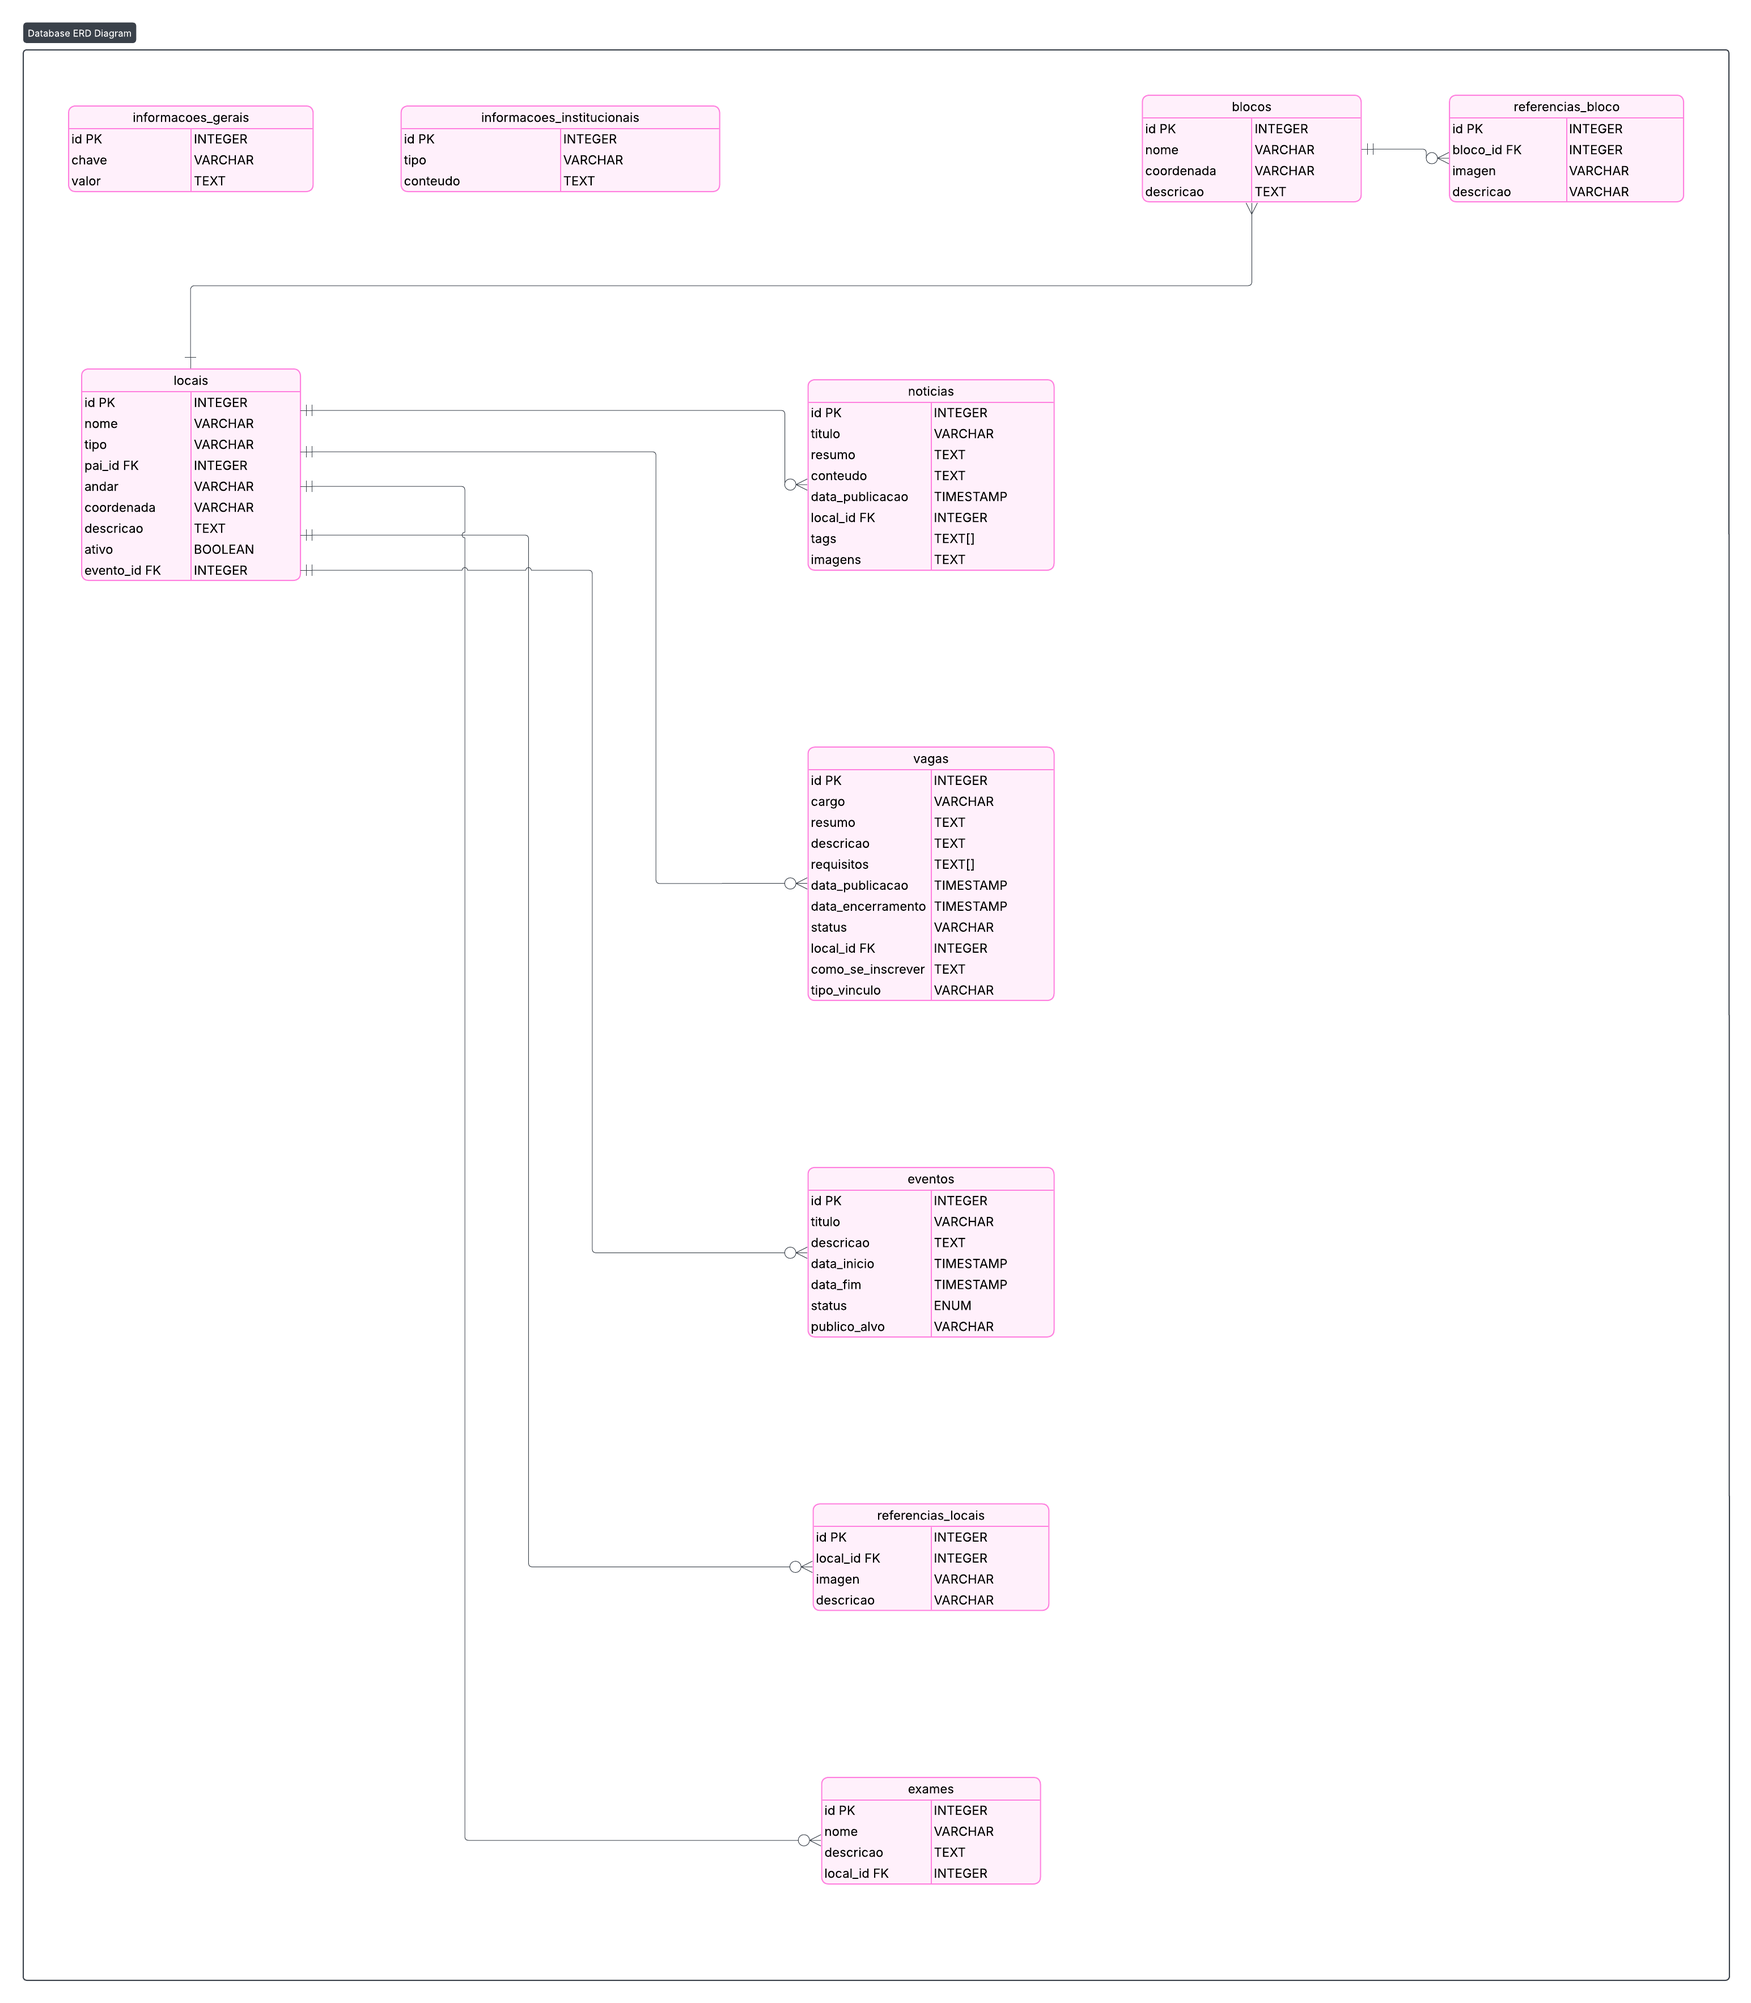
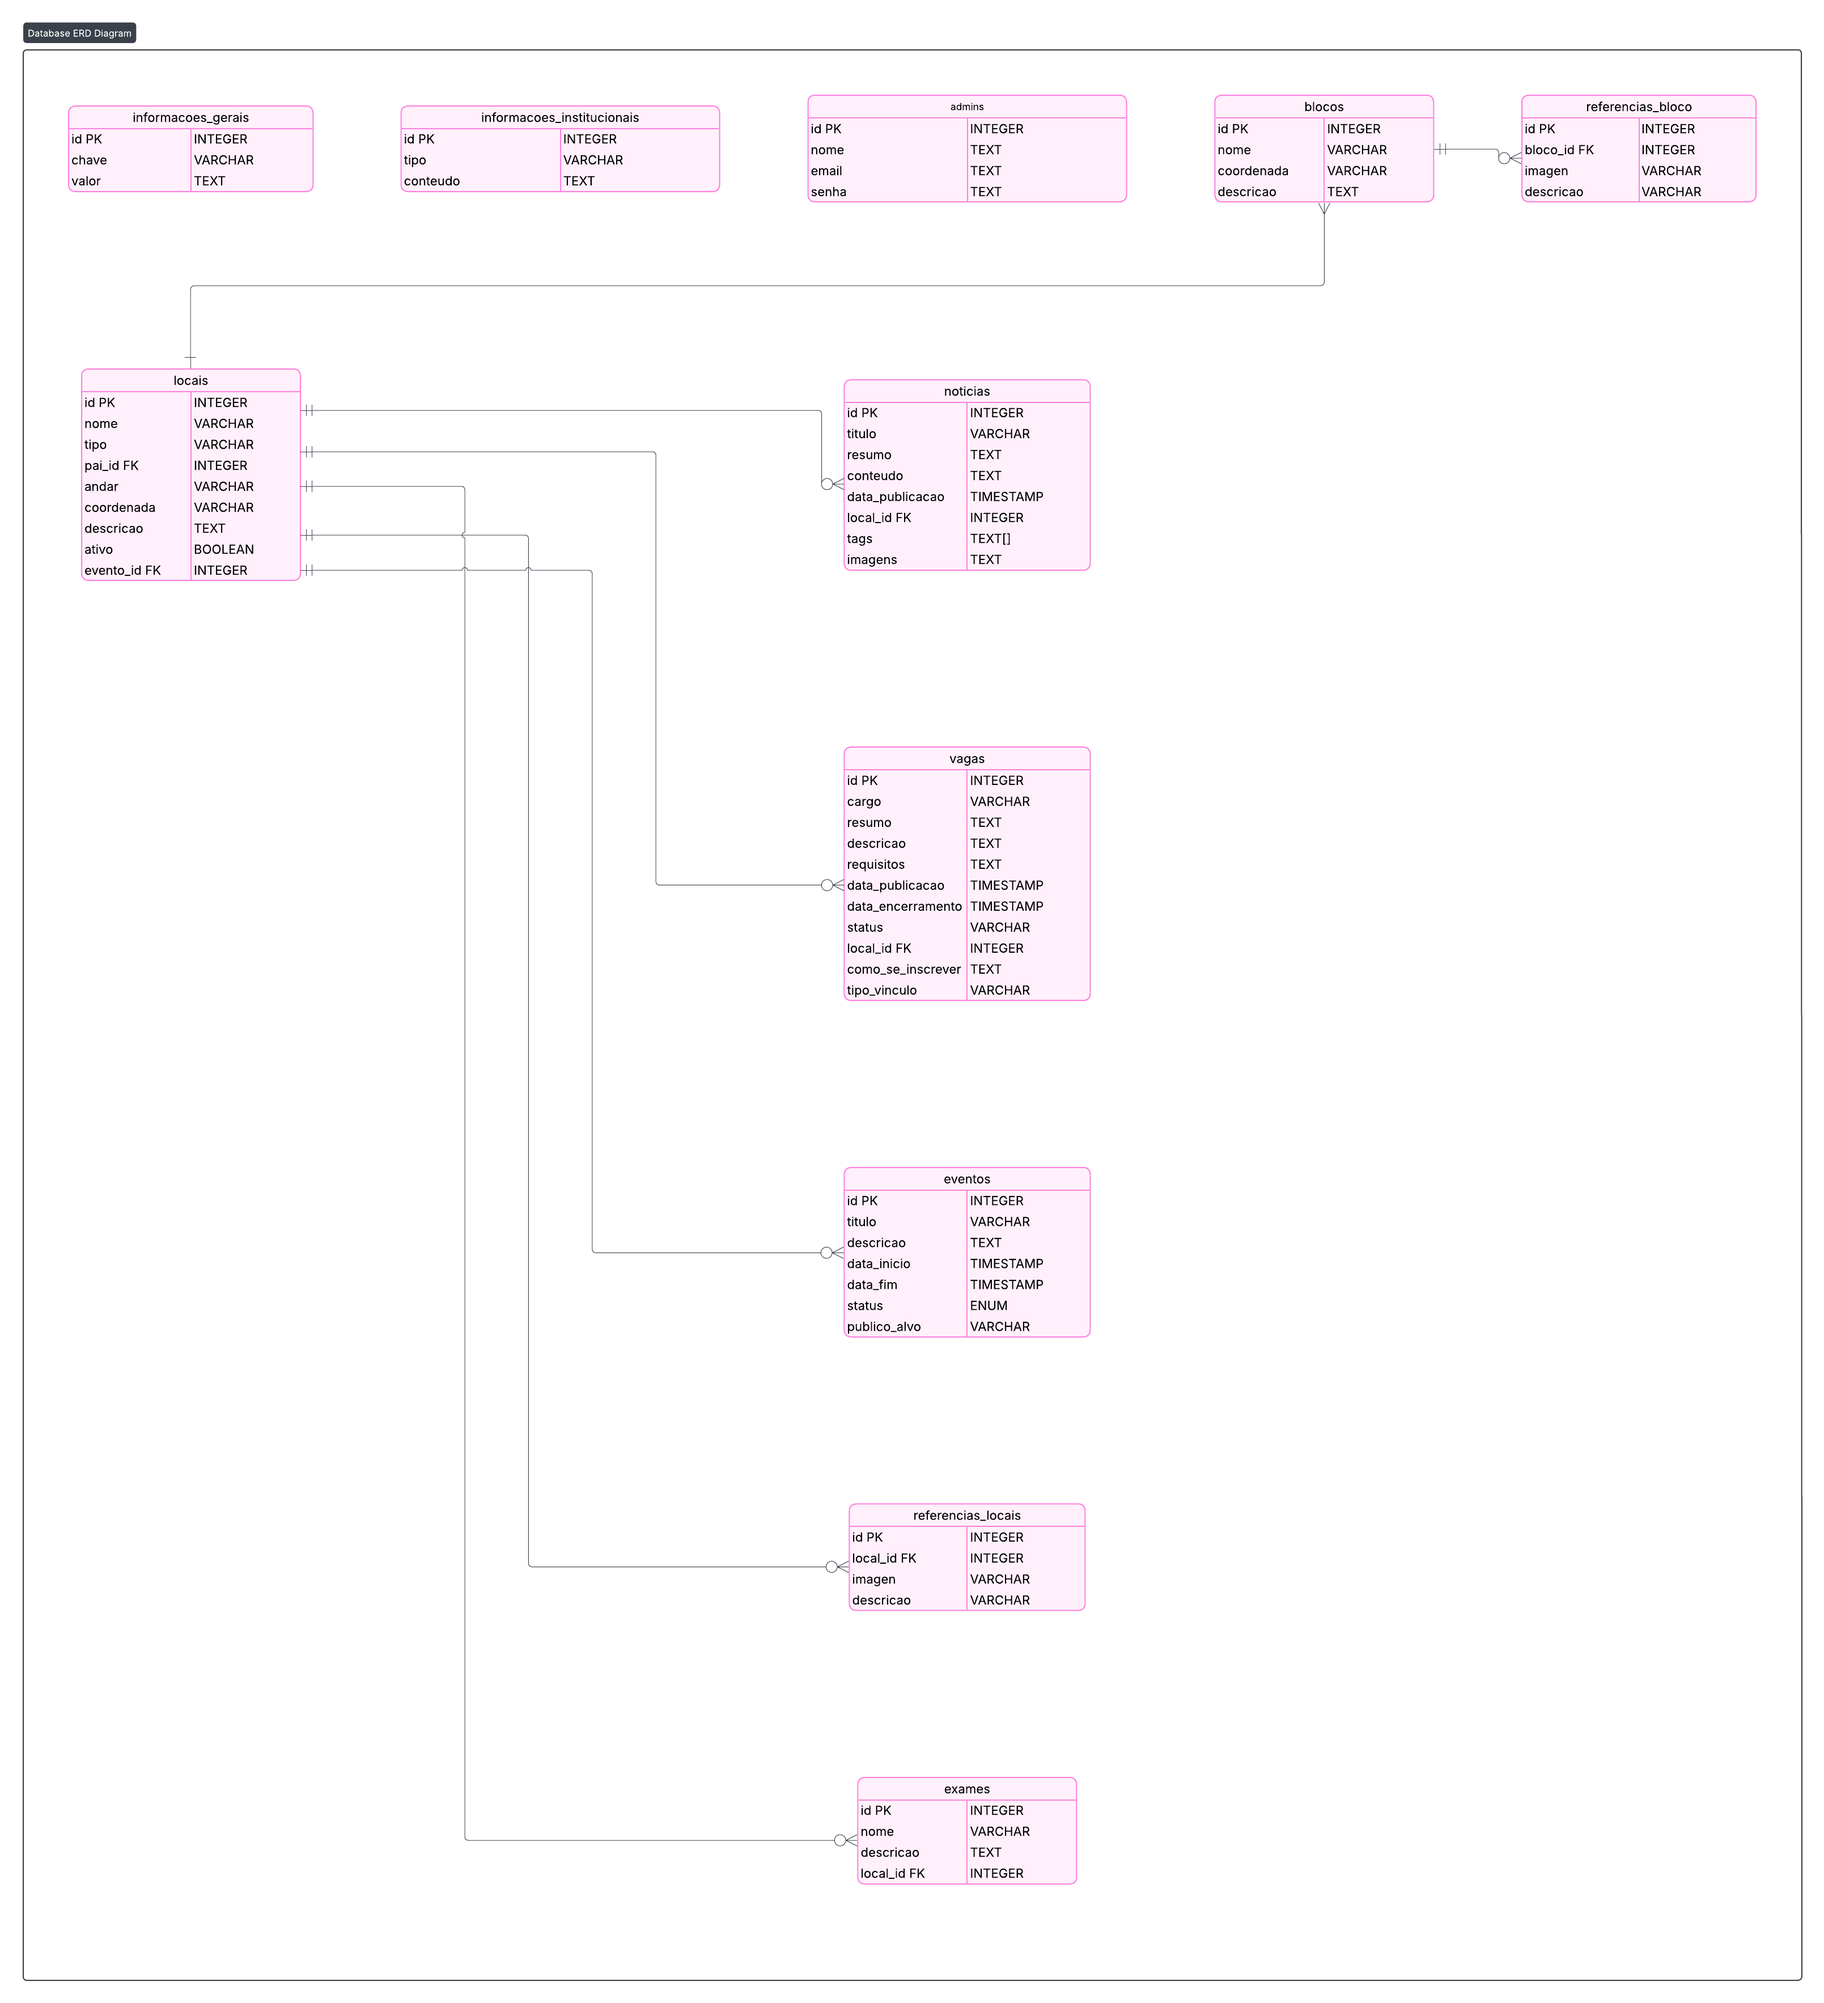
refiz algumas coisas, enviando .env,database para perguntar para o flavio se no escopo de trabalho da faculdade devo enviar isso

diff --git a/src/loginPage.html b/src/loginPage.html
@@ -1,0 +1,201 @@
+<!doctype html>
+<html lang="pt-BR">
+    <head>
+        <meta charset="UTF-8" />
+        <meta name="viewport" content="width=device-width, initial-scale=1.0" />
+        <title>Admin - Ações</title>
+        <style>
+            body {
+                font-family: Arial, sans-serif;
+                display: flex;
+                justify-content: center;
+                align-items: center;
+                height: 100vh;
+                margin: 0;
+                background-color: #f5f5f5;
+            }
+
+            .container {
+                background: white;
+                padding: 2rem;
+                border-radius: 8px;
+                box-shadow: 0 2px 10px rgba(0, 0, 0, 0.1);
+                width: 320px;
+            }
+
+            .container h2 {
+                margin-bottom: 1.5rem;
+                text-align: center;
+            }
+
+            .input-group {
+                margin-bottom: 1rem;
+            }
+
+            .input-group label {
+                display: block;
+                margin-bottom: 0.5rem;
+                font-weight: bold;
+            }
+
+            .input-group input,
+            .input-group select {
+                width: 100%;
+                padding: 0.5rem;
+                box-sizing: border-box;
+                border: 1px solid #ccc;
+                border-radius: 4px;
+            }
+
+            button {
+                width: 100%;
+                padding: 0.75rem;
+                background-color: #007bff;
+                color: white;
+                border: none;
+                border-radius: 4px;
+                cursor: pointer;
+                font-size: 1rem;
+            }
+
+            button:hover {
+                background-color: #0056b3;
+            }
+
+            .hidden {
+                display: none;
+            }
+        </style>
+    </head>
+    <body>
+        <div class="container">
+            <!-- Formulário de Login -->
+            <form id="loginForm">
+                <h2>Login Admin</h2>
+                <div class="input-group">
+                    <label for="email">Email</label>
+                    <input type="email" id="email" required />
+                </div>
+                <div class="input-group">
+                    <label for="senha">Senha</label>
+                    <input type="password" id="senha" required />
+                </div>
+                <button type="submit">Entrar</button>
+            </form>
+
+            <!-- Formulário de Ação (inicialmente escondido) -->
+            <form id="acaoForm" class="hidden">
+                <h2>Escolha a Ação</h2>
+                <div class="input-group">
+                    <label for="tipo">Tipo</label>
+                    <select id="tipo" required>
+                        <option value="exame">Exame</option>
+                        <option value="setor">Setor</option>
+                        <option value="bloco">Bloco</option>
+                    </select>
+                </div>
+                <div class="input-group">
+                    <label for="id">ID</label>
+                    <input type="number" id="id" min="1" required />
+                </div>
+                <button type="submit">Excluir</button>
+            </form>
+        </div>
+
+        <script>
+            const loginForm = document.getElementById("loginForm");
+            const acaoForm = document.getElementById("acaoForm");
+
+            // Função para extrair o token da mensagem
+            function extrairToken(mensagem) {
+                const match = mensagem.match(/Token Gerado: (.+)/);
+                return match ? match[1] : null;
+            }
+
+            // Login
+            loginForm.addEventListener("submit", async (e) => {
+                e.preventDefault();
+                const email = document.getElementById("email").value;
+                const senha = document.getElementById("senha").value;
+
+                try {
+                    const res = await fetch(
+                        "http://localhost:3003/loginAdmin",
+                        {
+                            method: "POST",
+                            headers: { "Content-Type": "application/json" },
+                            body: JSON.stringify({ email, senha }),
+                        },
+                    );
+
+                    const data = await res.json();
+                    console.log("Resposta do login:", data);
+
+                    if (data.codigoStatus === 200) {
+                        const token = extrairToken(data.mensagem);
+                        if (token) {
+                            localStorage.setItem("adminToken", token);
+                            // Troca de tela
+                            loginForm.classList.add("hidden");
+                            acaoForm.classList.remove("hidden");
+                        } else {
+                            alert("Erro: Token não encontrado na resposta.");
+                        }
+                    } else {
+                        alert(
+                            "Login falhou: " +
+                                (data.mensagem || "Erro desconhecido"),
+                        );
+                    }
+                } catch (err) {
+                    console.error("Erro na requisição de login:", err);
+                    alert("Erro ao conectar com a API.");
+                }
+            });
+
+            // Ação de exclusão
+            acaoForm.addEventListener("submit", async (e) => {
+                e.preventDefault();
+                const tipo = document.getElementById("tipo").value;
+                const id = document.getElementById("id").value;
+
+                if (!id || id <= 0) {
+                    alert("Por favor, insira um ID válido.");
+                    return;
+                }
+
+                const token = localStorage.getItem("adminToken");
+                if (!token) {
+                    alert("Token não encontrado. Faça login novamente.");
+                    return;
+                }
+
+                const url = `http://localhost:3003/adminAcao/${tipo}/${id}`;
+
+                try {
+                    const res = await fetch(url, {
+                        method: "DELETE",
+                        headers: {
+                            Authorization: `Bearer ${token}`,
+                        },
+                    });
+
+                    const result = await res.json();
+                    console.log("Resposta da exclusão:", result);
+
+                    if (res.ok) {
+                        alert("Exclusão realizada com sucesso!");
+                    } else {
+                        alert(
+                            "Erro na exclusão: " +
+                                (result.mensagem || "Erro desconhecido"),
+                        );
+                    }
+                } catch (err) {
+                    console.error("Erro na requisição de exclusão:", err);
+                    alert("Erro ao conectar com a API.");
+                }
+            });
+        </script>
+    </body>
+</html>
